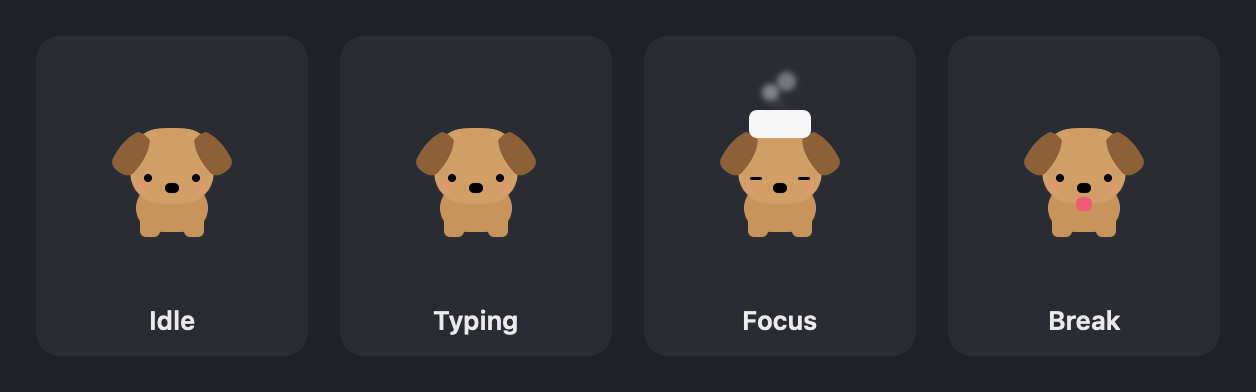
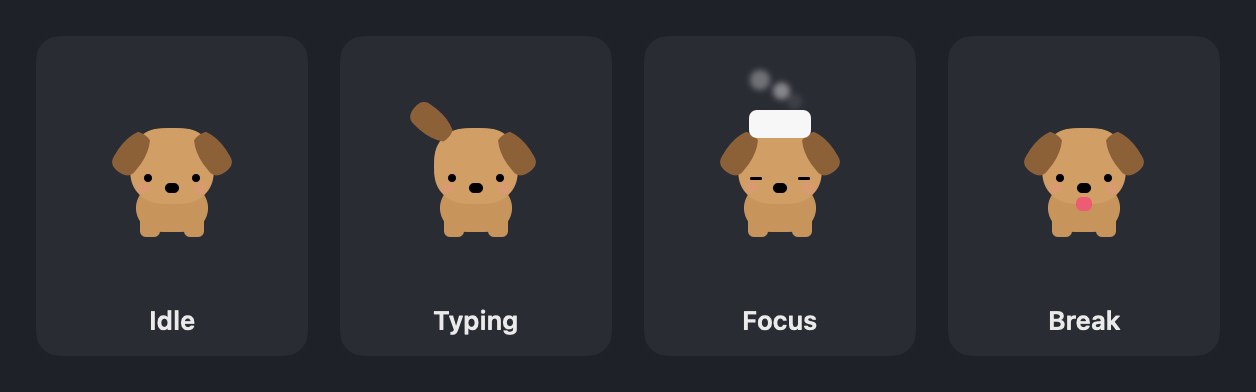
Show raised ear in typing preview

Changed region(s): [[0.3105, 0.2449, 0.3726, 0.4592], [0.59, 0.1837, 0.6521, 0.2755]]

diff --git a/Waggle/Dog/DogSpriteView.swift b/Waggle/Dog/DogSpriteView.swift
@@ -16,6 +16,8 @@ struct DogSpriteView: View {
     var animationState: DogAnimationState = .idle
     /// Increments once per keystroke; the placeholder flaps an ear on each change.
     var keyPulse: Int = 0
+    /// Holds one ear up for a still image of the typing reaction.
+    var previewRaisedEar: Bool = false
     /// Angle to the cursor (degrees) for the tail to follow; nil if far.
     var cursorAngle: Double?
     /// Whether the dog is carrying a fetched bone.
@@ -40,6 +42,7 @@ struct DogSpriteView: View {
         if frames.isEmpty {
             PlaceholderDog(
                 keyPulse: keyPulse,
+                previewRaisedEar: previewRaisedEar,
                 animationState: animationState,
                 cursorAngle: cursorAngle,
                 hasBone: hasBone,
@@ -88,6 +91,8 @@ struct DogSpriteView: View {
 private struct PlaceholderDog: View {
     /// Increments once per keystroke; each change flaps one ear (alternating).
     let keyPulse: Int
+    /// Static version of the first typing flap for documentation images.
+    let previewRaisedEar: Bool
     /// Current visual state, used for the Pomodoro flavour.
     let animationState: DogAnimationState
     /// Angle to the cursor (degrees) the tail follows; nil if far.
@@ -181,7 +186,8 @@ private struct PlaceholderDog: View {
                 .frame(width: 42, height: 38)
                 .offset(y: -5)
 
-            ear(angle: earRest + leftAngle).offset(x: -14, y: -9)
+            ear(angle: earRest + (previewRaisedEar ? 95 : leftAngle))
+                .offset(x: -14, y: -9)
             ear(angle: -earRest + rightAngle).offset(x: 14, y: -9)
 
             // Blush

diff --git a/scripts/render_demo.swift b/scripts/render_demo.swift
@@ -19,7 +19,11 @@ struct RenderReadmeDemo {
         let preview = HStack(spacing: 16) {
             ForEach(Array(states.enumerated()), id: \.offset) { _, item in
                 VStack(spacing: 4) {
-                    DogSpriteView(animationState: item.1, coat: .default)
+                    DogSpriteView(
+                        animationState: item.1,
+                        previewRaisedEar: item.1 == .typing,
+                        coat: .default
+                    )
                     Text(item.0)
                         .font(.system(size: 13, weight: .semibold))
                         .foregroundColor(.white.opacity(0.9))
